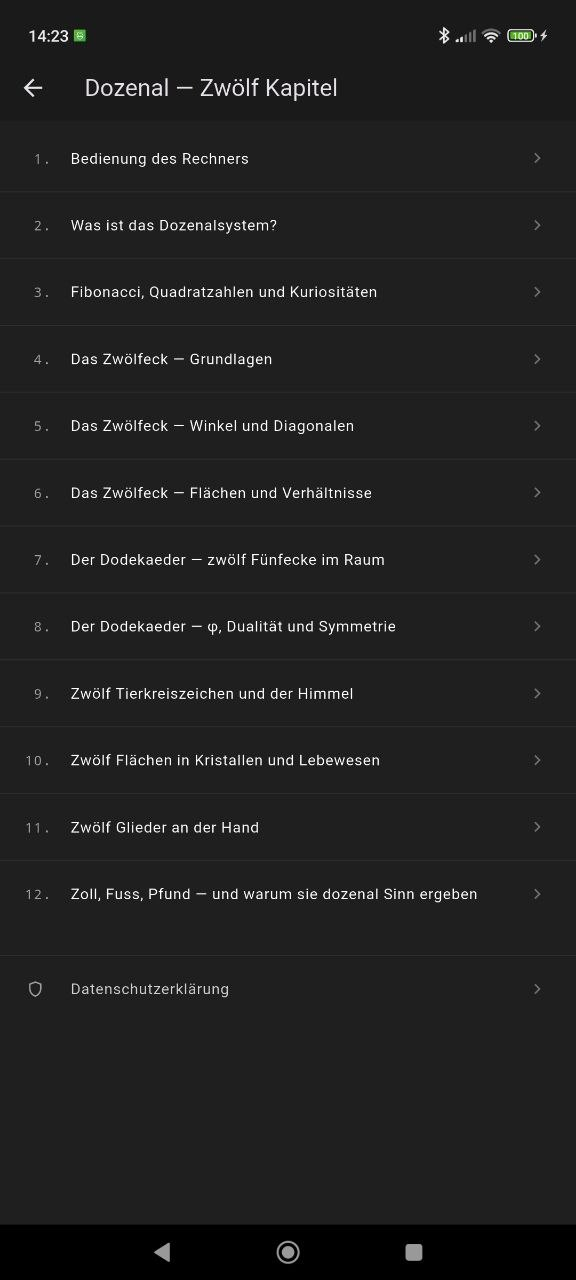
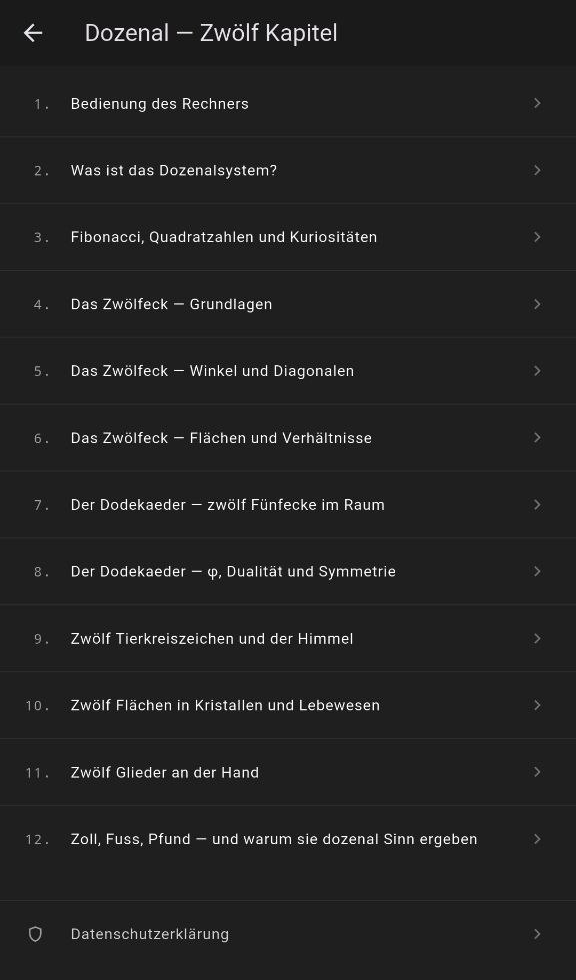
Intro-Bilder zuschneiden: Statusbar und Leerbereich entfernt
Die phone-Screenshots im Intro-PageView waren 576×1280 — die Statusbar
oben und der leere Bereich plus Navigations-Bar unten haben dafür gesorgt,
dass das Bild im Tablet-Landscape extrem schmal dargestellt wurde. Crop
auf 576×980 (y=55..1035) zeigt jetzt nur noch Display bis Equals-Reihe.
Die Highlight-Koordinaten in intro_pages.dart sind entsprechend
transformiert (y_neu = (y_alt*1280 - 55) / 980), und aspectRatio von
576/1280 auf 576/980 angepasst. intro_seen_v1 → v2 bumpt das Onboarding
für Bestandstester, damit sie das überarbeitete Intro sehen.

diff --git a/lib/intro_pages.dart b/lib/intro_pages.dart
@@ -54,26 +54,31 @@ class _IntroSlide {
 }
 
 // ---------------------------------------------------------------------------
-// Standard coordinates derived from the 576×1280 screenshots in
-// assets/intro/. Adjust here if a future screenshot moves anything.
+// Standard coordinates derived from the 576×980 cropped screenshots in
+// assets/intro/. The original phone screenshots were 576×1280; the
+// statusbar (rows 0-54) and the empty area below the equals row plus the
+// navigation bar (rows 1035-1280) have been trimmed so the calculator
+// fills the frame top to bottom. This both removes irrelevant chrome and
+// gives the image a less extreme aspect ratio, so it stays readable on
+// landscape tablets. Adjust here if a future screenshot moves anything.
 // ---------------------------------------------------------------------------
 
 // Rectangle covering the full 4×3 dozenal digit block on new4.png.
-const Rect _kDigitBlock = Rect.fromLTRB(0.02, 0.225, 0.98, 0.455);
+const Rect _kDigitBlock = Rect.fromLTRB(0.02, 0.2378, 0.98, 0.5382);
 
 // Rectangle covering the two-line display window on new4.png.
-const Rect _kDisplay = Rect.fromLTRB(0.02, 0.045, 0.98, 0.235);
+const Rect _kDisplay = Rect.fromLTRB(0.02, 0.0027, 0.98, 0.2508);
 
 // Rectangle covering the 4×4 function-key (op-grid) block on new4.png.
-const Rect _kOpBlock = Rect.fromLTRB(0.02, 0.475, 0.98, 0.685);
+const Rect _kOpBlock = Rect.fromLTRB(0.02, 0.5643, 0.98, 0.8386);
 
 // Rectangle covering the twelve theory chapters list on new1.png.
-const Rect _kChapterList = Rect.fromLTRB(0.02, 0.10, 0.98, 0.72);
+const Rect _kChapterList = Rect.fromLTRB(0.02, 0.0745, 0.98, 0.8843);
 
 // Digit-glyph cell centres in the 4×3 grid of new4.png. Layout matches
 // keypad.dart::_digitGrid:
 //   row 0: 10, 11,  0   (column x: 0.165, 0.50, 0.835)
-//   row 1:  7,  8,  9   (row     y: 0.282, 0.336, 0.390, 0.443)
+//   row 1:  7,  8,  9   (row     y: 0.2926, 0.3631, 0.4337, 0.5029)
 //   row 2:  4,  5,  6
 //   row 3:  1,  2,  3
 //
@@ -81,21 +86,21 @@ const Rect _kChapterList = Rect.fromLTRB(0.02, 0.10, 0.98, 0.72);
 // pairing glyph ↔ everyday number is visually obvious.
 const List<DigitLabel> _kDecoderLabels = [
   // Row 0
-  DigitLabel(center: Offset(0.25, 0.267), text: '10'),
-  DigitLabel(center: Offset(0.585, 0.267), text: '11'),
-  DigitLabel(center: Offset(0.92, 0.267), text: '0'),
+  DigitLabel(center: Offset(0.25, 0.2926), text: '10'),
+  DigitLabel(center: Offset(0.585, 0.2926), text: '11'),
+  DigitLabel(center: Offset(0.92, 0.2926), text: '0'),
   // Row 1
-  DigitLabel(center: Offset(0.25, 0.321), text: '7'),
-  DigitLabel(center: Offset(0.585, 0.321), text: '8'),
-  DigitLabel(center: Offset(0.92, 0.321), text: '9'),
+  DigitLabel(center: Offset(0.25, 0.3631), text: '7'),
+  DigitLabel(center: Offset(0.585, 0.3631), text: '8'),
+  DigitLabel(center: Offset(0.92, 0.3631), text: '9'),
   // Row 2
-  DigitLabel(center: Offset(0.25, 0.375), text: '4'),
-  DigitLabel(center: Offset(0.585, 0.375), text: '5'),
-  DigitLabel(center: Offset(0.92, 0.375), text: '6'),
+  DigitLabel(center: Offset(0.25, 0.4337), text: '4'),
+  DigitLabel(center: Offset(0.585, 0.4337), text: '5'),
+  DigitLabel(center: Offset(0.92, 0.4337), text: '6'),
   // Row 3
-  DigitLabel(center: Offset(0.25, 0.428), text: '1'),
-  DigitLabel(center: Offset(0.585, 0.428), text: '2'),
-  DigitLabel(center: Offset(0.92, 0.428), text: '3'),
+  DigitLabel(center: Offset(0.25, 0.5029), text: '1'),
+  DigitLabel(center: Offset(0.585, 0.5029), text: '2'),
+  DigitLabel(center: Offset(0.92, 0.5029), text: '3'),
 ];
 
 const List<_IntroSlide> _slides = [
@@ -138,8 +143,8 @@ const List<_IntroSlide> _slides = [
   _IntroSlide(
     image: 'assets/intro/new4.png',
     circles: [
-      HighlightCircle(center: Offset(0.087, 0.772), radius: 0.04),
-      HighlightCircle(center: Offset(0.91, 0.772), radius: 0.04),
+      HighlightCircle(center: Offset(0.087, 0.9522), radius: 0.04),
+      HighlightCircle(center: Offset(0.91, 0.9522), radius: 0.04),
     ],
     text: 'Links unten die (i)-Taste — sie öffnet zwölf Theorie-Kapitel '
         'über das Dozenalsystem. Rechts unten die (?)-Taste, die dieses '
@@ -150,8 +155,8 @@ const List<_IntroSlide> _slides = [
   _IntroSlide(
     image: 'assets/intro/new4.png',
     circles: [
-      HighlightCircle(center: Offset(0.14, 0.71), radius: 0.04),
-      HighlightCircle(center: Offset(0.86, 0.71), radius: 0.04),
+      HighlightCircle(center: Offset(0.14, 0.8712), radius: 0.04),
+      HighlightCircle(center: Offset(0.86, 0.8712), radius: 0.04),
     ],
     text: 'AC (rot) löscht alles. Die »…«-Taste rechts daneben öffnet ein '
         'Overlay mit weiteren Funktionen — Konstanten, hyperbolische '
@@ -162,10 +167,10 @@ const List<_IntroSlide> _slides = [
   _IntroSlide(
     image: 'assets/intro/new3.png',
     circles: [
-      HighlightCircle(center: Offset(0.14, 0.715), radius: 0.045),
-      HighlightCircle(center: Offset(0.38, 0.715), radius: 0.045),
+      HighlightCircle(center: Offset(0.14, 0.8778), radius: 0.045),
+      HighlightCircle(center: Offset(0.38, 0.8778), radius: 0.045),
       // Small DOZ indicator at top-right of the display.
-      HighlightCircle(center: Offset(0.93, 0.085), radius: 0.022),
+      HighlightCircle(center: Offset(0.93, 0.0549), radius: 0.022),
     ],
     text: 'Im Overlay: Doz/Dez schaltet zwischen Dozenal- (Basis 12) und '
         'Dezimal-Eingabe (Basis 10) um. Die aktive Taste ist umrandet, '
@@ -274,7 +279,7 @@ class _SlideView extends StatelessWidget {
         children: [
           Expanded(
             child: AspectRatio(
-              aspectRatio: 576 / 1280,
+              aspectRatio: 576 / 980,
               child: Stack(
                 fit: StackFit.expand,
                 children: [

diff --git a/lib/main.dart b/lib/main.dart
@@ -17,7 +17,7 @@ import 'tokens.dart';
 /// SharedPreferences key for the "user has seen the intro" flag. Bump the
 /// version suffix when the intro changes substantially enough to warrant
 /// showing it again to existing users.
-const String _kIntroSeenFlag = 'intro_seen_v1';
+const String _kIntroSeenFlag = 'intro_seen_v2';
 
 void main() {
   WidgetsFlutterBinding.ensureInitialized();
